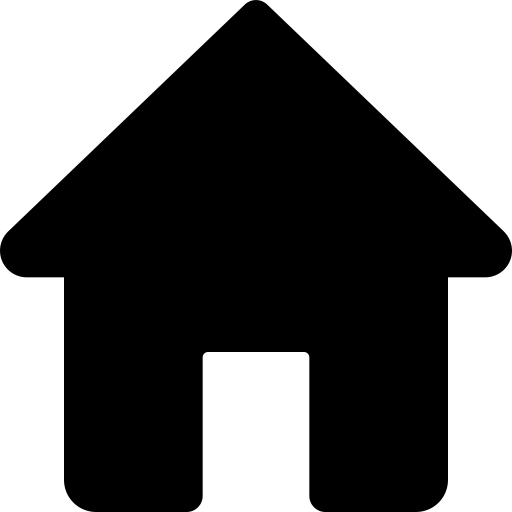
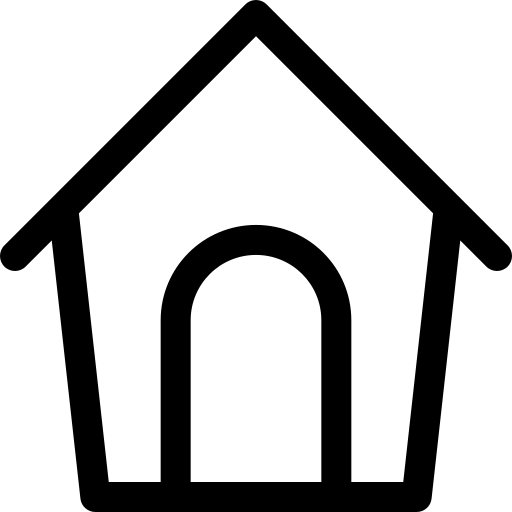
Add files via upload

diff --git a/Dogram/templates/navbar.html b/Dogram/templates/navbar.html
@@ -6,8 +6,7 @@
 
     <div class="main-nav">
         <ul>
-            <li><a href="{{ url_for('homepage') }}"><img src="{{ url_for('static', filename='assets/icones/casa.png') }}" alt="Início"></a></li>
-            <li><a href="#"><img src="{{ url_for('static', filename='assets/icones/lupa.png') }}" alt="Buscar amigos peludos"></a></li>
+            <li><a href="{{ url_for('homepage') }}"><img src="{{ url_for('static', filename='assets/icones/casa.png') }}" alt="Início" style="width: 30px; height: 30px"></a></li>
             <li><a href="{{ url_for('favoritos') }}"><img src="{{ url_for('static', filename='assets/icones/coracao.png') }}" alt="Curtidas"></a></li>
             <li><a href="{{ url_for('publicar') }}"><img src="{{ url_for('static', filename='assets/icones/mais.png') }}" alt="Adicionar Post ou História"></a></li>
             <li>
@@ -21,6 +20,11 @@
                     </a>
                 {% endif %}
             </li>
+
+            {% if current_user.is_authenticated %}
+                <li><a href="{{ url_for('logout') }}"><img src="{{ url_for('static', filename='assets/icones/sair.png') }}" alt="Sair"></a></li>
+            {% endif %}
+
         </ul>
     </div>
 </nav>

diff --git a/Dogram/static/styles/profile/profile.css b/Dogram/static/styles/profile/profile.css
@@ -74,13 +74,7 @@ main {
 
 @media (min-width: 910px) {
   .posts:not(.profile-posts) {
-    grid-template-columns: repeat(2, minmax(350px, 1fr));
-  }
-}
-
-@media (min-width: 1330px) {
-  .posts:not(.profile-posts) {
-    grid-template-columns: repeat(3, minmax(350px, 1fr));
+    grid-template-columns: repeat(auto-fit, minmax(350px, 1fr));
   }
 }
 

diff --git a/db.py b/db.py
@@ -1,6 +1,6 @@
 from Dogram import database, app
 from Dogram.models import User, Post, favorites, seguidores, Comment
-from werkzeug.security import generate_password_hash
+from Dogram import bcrypt
 
 with app.app_context():
   database.create_all()
@@ -10,10 +10,11 @@ print('Data base Criada!')
 with app.app_context():
     database.create_all()
 
-    user1 = User(username="boby_dog", email="boby@example.com", password=generate_password_hash("123456"), story=True, profile_pic="profile1.jpg")
-    user2 = User(username="luna_cat", email="luna@example.com", password=generate_password_hash("abcdef"), story=True, profile_pic="profile2.jpg")
-    user3 = User(username="kiara", email="kiara@porco.com", password=generate_password_hash("Kiara10"), story=True, profile_pic="profile3.jpg")
-    user4 = User(username="max_dog", email="max@dog.com", password=generate_password_hash("maximiliano10"), story=True, profile_pic="profile4.jpg")
+    user1 = User(username="boby_dog", email="boby@example.com", password=bcrypt.generate_password_hash("123456").decode('utf-8'), story=True, profile_pic="profile1.jpg")
+    user2 = User(username="luna_cat", email="luna@example.com", password=bcrypt.generate_password_hash("abcdef").decode('utf-8'), story=True, profile_pic="profile2.jpg")
+    user3 = User(username="kiara", email="kiara@porco.com", password=bcrypt.generate_password_hash("Kiara10").decode('utf-8'), story=True, profile_pic="profile3.jpg")
+    user4 = User(username="max_dog", email="max@dog.com", password=bcrypt.generate_password_hash("maximiliano10").decode('utf-8'), story=True, profile_pic="profile4.jpg")
+
 
     database.session.add_all([user1, user2, user3, user4])
     database.session.commit()

diff --git a/Dogram/__init__.py b/Dogram/__init__.py
@@ -15,6 +15,6 @@ csrf = CSRFProtect(app)
 database = SQLAlchemy(app)
 bcrypt = Bcrypt(app)
 login_manager = LoginManager(app)
-login_manager.login_view = "homepage"
+login_manager.login_view = "login"
 
 from Dogram import routes
